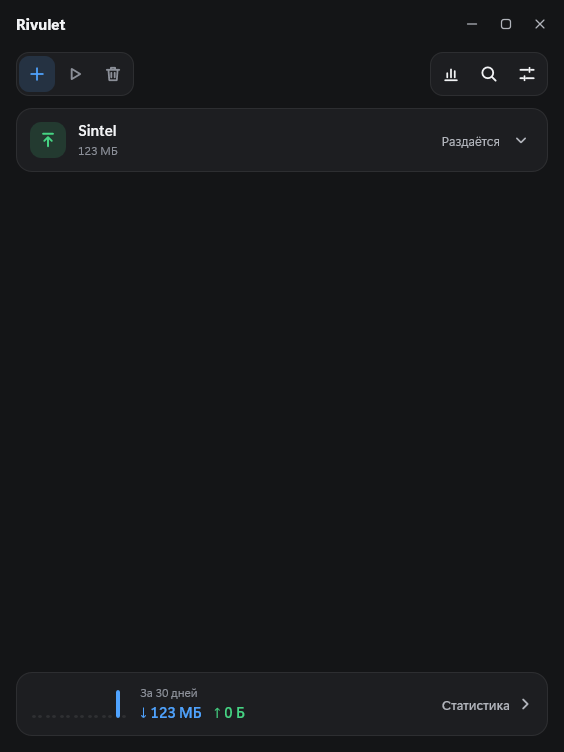
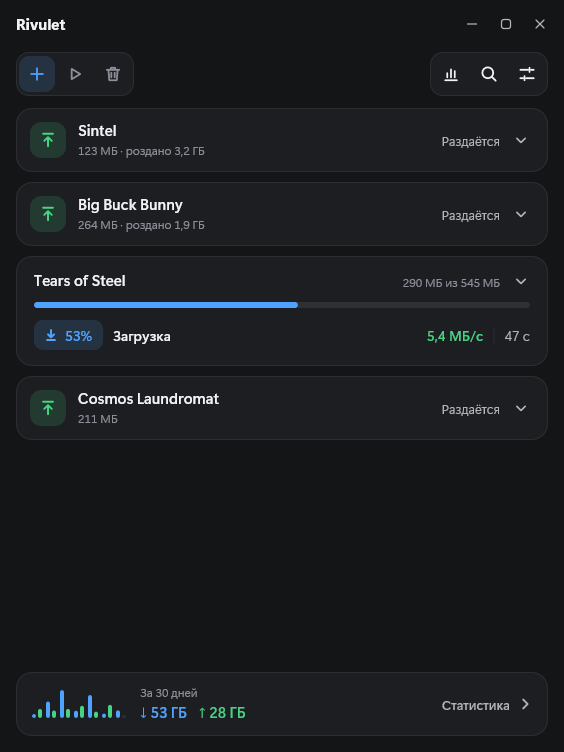
README in English with new hero, feature and screenshot images

diff --git a/README.md b/README.md
@@ -1,87 +1,88 @@
 <div align="center">
 
-<img src="assets/logo.png" width="96" alt="Rivulet">
+<img src="docs/hero.png" alt="Rivulet — a light BitTorrent client for Windows">
 
-# Rivulet
-
-**Лёгкий торрент-клиент для Windows**
-
-Один exe · нативный интерфейс · выбор файлов до начала загрузки
-
+[![Build](../../actions/workflows/build.yml/badge.svg)](../../actions/workflows/build.yml)
 ![Platform](https://img.shields.io/badge/platform-Windows%2010%20%7C%2011-0078D4?logo=windows11&logoColor=white)
-![Win32](https://img.shields.io/badge/Win32-native-0078D4)
-![Rust](https://img.shields.io/badge/Rust-stable-000000?logo=rust)
+![Rust](https://img.shields.io/badge/Rust-Win32%20%C2%B7%20Direct2D-000000?logo=rust)
 ![License](https://img.shields.io/badge/license-MIT-green)
 
-[Возможности](#возможности) · [Сборка из исходников](#сборка-из-исходников) · [English](#english)
-
-<img src="docs/screenshot.png" width="280" alt="Список загрузок">
-&nbsp;
-<img src="docs/add-sheet.png" width="280" alt="Выбор файлов перед загрузкой">
-&nbsp;
-<img src="docs/stats.png" width="280" alt="Статистика">
+[**Download**](../../releases/latest) · [Features](#features) · [Build from source](#build-from-source) · [На русском](#на-русском)
 
 </div>
 
-## Возможности
+## Features
 
-- **Сначала выбор, потом загрузка.** Откройте `.torrent`, magnet-ссылку или перетащите файл в окно: Rivulet покажет список файлов, где можно отметить нужные, выбрать папку и дать загрузке своё название. Невыбранные файлы не появляются на диске даже в виде пустых заготовок.
-- **Понятные карточки.** Прогресс, скорость с цветом по уровню, время до конца. По клику — подробности: сиды и пиры, отдача, размер.
-- **Три режима вместо десятков настроек.** «Спокойный» бережёт компьютер и сеть, «Обычный» без ограничений скорости, «Максимум» — всё, что позволяет канал.
-- **Статистика.** Сколько скачано и роздано за 7 дней, 30 дней и всё время, рейтинг раздачи, график по дням и самые раздаваемые торренты. Итоги за 30 дней видны прямо под списком.
-- **Поиск и переименование.** Ctrl+F фильтрует список, F2 переименовывает загрузку.
-- **Работает в фоне.** Значок в трее со скоростью, уведомления о завершении, автозапуск вместе с Windows.
-- **Встраивается в Windows.** Открывает `.torrent` и magnet-ссылки (после выбора в «Приложениях по умолчанию»), всегда работает одна копия, светлая или тёмная тема — как в Windows. Своя строка заголовка с кнопками окна; окно перетаскивается, разворачивается и прилипает к краям как обычно.
-- **Без лишнего.** Один `rivulet.exe` около 7 МБ, без установщика, рантаймов и WebView. Данные — в `%LOCALAPPDATA%\Rivulet`.
+<img src="docs/features.png" alt="Rivulet features">
 
-## Горячие клавиши
+- **Choose before you download.** Open a `.torrent` file or a magnet link, tick the files you want, pick a folder and give the download your own name. Unticked files never appear on disk, not even as empty placeholders.
+- **Clear at a glance.** Progress, speed colored by level and time left; expand a card for peers, upload and size.
+- **Statistics built in.** Downloaded and shared over 7 days, 30 days or all time, share ratio, a daily chart and your most seeded torrents. A 30-day summary sits right under the list.
+- **Three modes, no knobs.** Calm, Steady or Surge instead of dozens of engine settings.
+- **Quiet in the tray.** Speeds in the tooltip, a notification when a download is done, optional start with Windows.
+- **At home on Windows.** Opens `.torrent` files and magnet links, keeps a single copy running, follows your light or dark theme, snaps and resizes like any window.
+- **Native and tiny.** One `rivulet.exe` of about 7 MB, ~35 MB of memory while downloading. No installer, no runtime, no WebView.
 
-| Клавиша | Действие |
+The interface is currently in Russian.
+
+## Screenshots
+
+| Downloads | Choosing files | Statistics |
+|---|---|---|
+| <img src="docs/screenshot.png" width="280" alt="Download list"> | <img src="docs/add-sheet.png" width="280" alt="Choosing files before downloading"> | <img src="docs/stats.png" width="280" alt="Statistics (sample data)"> |
+
+## Install
+
+Download `rivulet.exe` from the [latest release](../../releases/latest), put it in any folder and run it. To open `.torrent` files and magnet links with Rivulet, use **Settings → Open .torrent and magnet in Rivulet** and pick Rivulet in Windows *Default apps*.
+
+The exe is not code-signed, so SmartScreen may warn on first launch: *More info → Run anyway*.
+
+## Keyboard shortcuts
+
+| Key | Action |
 |---|---|
-| Ctrl+O | Открыть .torrent-файл |
-| Ctrl+V | Вставить magnet-ссылку |
-| Ctrl+F | Поиск |
-| F2 | Переименовать выбранную загрузку |
-| Пробел | Пауза / продолжить выбранные |
-| Delete | Убрать выбранные из списка |
-| Ctrl+A | Выбрать все |
+| Ctrl+O | Open a .torrent file |
+| Ctrl+V | Paste a magnet link |
+| Ctrl+F | Search |
+| F2 | Rename the selected download |
+| Space | Pause / resume selected |
+| Delete | Remove selected from the list |
+| Ctrl+A | Select all |
 
-## Сборка из исходников
+## Command line
 
-Нужны [Rust](https://rustup.rs) и Visual Studio Build Tools (C++).
+| Argument | What it does |
+|---|---|
+| `<file.torrent>` or `<magnet:…>` | Open a torrent (in the running copy, if any) |
+| `--minimized` | Start in the tray |
+| `--register` / `--unregister` | Register or remove Rivulet as a handler for .torrent and magnet |
+| `--quit` | Close the running copy cleanly |
+
+## Build from source
+
+Requires [Rust](https://rustup.rs) and Visual Studio Build Tools (C++).
 
 ```powershell
 cargo build --release
 ```
 
-Готовый файл — `target\release\rivulet.exe`. Ключи командной строки:
+The result is `target\release\rivulet.exe`. A console front end, `rivulet-cli`, is included for testing the engine.
 
-| Ключ | Что делает |
-|---|---|
-| `<файл.torrent>` или `<magnet:…>` | Открыть торрент (в уже запущенной копии) |
-| `--minimized` | Запуститься в трее |
-| `--register` / `--unregister` | Зарегистрировать или убрать Rivulet как обработчик .torrent и magnet |
-| `--quit` | Корректно закрыть запущенную копию |
+## How it works
 
-Для проверки движка без окна есть консольная версия `rivulet-cli`.
+- Engine: [librqbit](https://github.com/ikatson/rqbit) (Apache-2.0) — DHT, trackers, uTP, UPnP, session restore.
+- UI: plain Win32, Direct2D and DirectWrite, drawn by hand; no UI framework.
+- Unselected files are never created: pieces on their edges go to a sparse `.parts` file in `%LOCALAPPDATA%\Rivulet\parts`, removed together with the download.
+- Settings, session and statistics live in `%LOCALAPPDATA%\Rivulet`. No telemetry.
 
-## Как устроено
+BitTorrent is a way to move data. Download and share only what you have the right to.
 
-- Движок — [librqbit](https://github.com/ikatson/rqbit) (Apache-2.0): DHT, трекеры, uTP, UPnP, восстановление сессии.
-- Интерфейс — Win32, Direct2D и DirectWrite, без фреймворков.
-- Невыбранные файлы торрента не создаются: куски на их границах хранятся в служебном файле `%LOCALAPPDATA%\Rivulet\parts`, который удаляется вместе с загрузкой.
+## License
 
-BitTorrent — это протокол передачи данных. Скачивайте и раздавайте только то, на что у вас есть право.
+[MIT](LICENSE)
 
 ---
 
-## English
+## На русском
 
-**Rivulet** is a light BitTorrent client for Windows: a single native exe (~7 MB, Win32 + Direct2D, engine by librqbit).
-
-- Pick files, folder and a display name before a download starts; unselected files never appear on disk.
-- Clean download cards, three performance modes, search (Ctrl+F) and rename (F2).
-- Statistics: downloaded and uploaded over 7 days, 30 days and all time, share ratio, a daily chart and the most seeded torrents.
-- Tray icon, notifications, start with Windows, opens `.torrent` files and magnet links, single instance, follows the Windows theme and accent color.
-
-Build with `cargo build --release`. MIT licensed.
+**Rivulet** — лёгкий торрент-клиент для Windows: один нативный exe около 7 МБ (Rust, Win32, Direct2D, движок librqbit). Перед загрузкой можно выбрать файлы, папку и своё название, а невыбранные файлы не появляются на диске. Есть статистика скачанного и розданного, три режима работы, поиск и переименование, значок в трее, уведомления и автозапуск. Rivulet открывает `.torrent` и magnet-ссылки. Интерфейс на русском. [Скачать](../../releases/latest).
